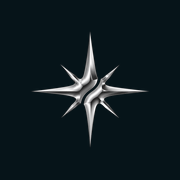
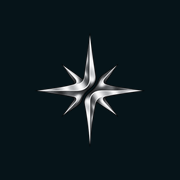
Stern: Kompassstern ersetzt den bisherigen Website-Stern überall
Ab 27.10.2026 ist Brand-Assets/neuralnautic/nn-stern-2026-10-kompass.png der
NN-Stern. public/logo-star.png und app/icon.png sind byte-gleich mit der
512er-Datei; favicon.ico (16/32/48/256) und apple-icon.png (180, Stern 116 px
auf Petrol #061419) kommen aus Brand-Assets/neuralnautic/abgeleitet/, aus dem
1254er-Original abgeleitet, nicht umgefärbt.

Größen bleiben: der neue Stern trägt bei gleicher Kante etwas mehr Fläche
(15 % statt 13 %), im Kopf und im Chat-Knopf wirkt er gleich gewichtig.

logo-star-gold.png (alter Stern in Gold) entfernt: im Code nicht mehr
verwendet, eine Gold-Fassung des neuen Sterns gibt es nicht.

Changed region(s): [[0.1667, 0.1667, 0.8333, 0.8056], [0.6389, 0.6389, 0.6667, 0.6667], [0.3333, 0.6389, 0.3611, 0.6667]]

diff --git a/app/components/Header.tsx b/app/components/Header.tsx
@@ -39,6 +39,8 @@ export default function Header() {
         <div style={{ maxWidth: 1240, margin: "0 auto", padding: "0 24px", display: "flex", alignItems: "center", height: 64 }}>
 
           <Link href="/" style={{ display: "flex", alignItems: "center", gap: 10, textDecoration: "none", border: 0, flexShrink: 0 }}>
+            {/* /logo-star.png = Brand-Assets/neuralnautic/nn-stern-2026-10-kompass.png, byte-gleich (seit 27.10.2026).
+                Ebenso app/icon.png; app/favicon.ico und app/apple-icon.png aus Brand-Assets/neuralnautic/abgeleitet/. */}
             <Image src="/logo-star.png" alt="NeuralNautic" width={48} height={48} style={{ objectFit: "contain" }} />
             <span style={{ fontFamily: "var(--font-italiana), serif", fontSize: 20, color: "var(--fg-1)", letterSpacing: ".04em" }}>NeuralNautic</span>
           </Link>
